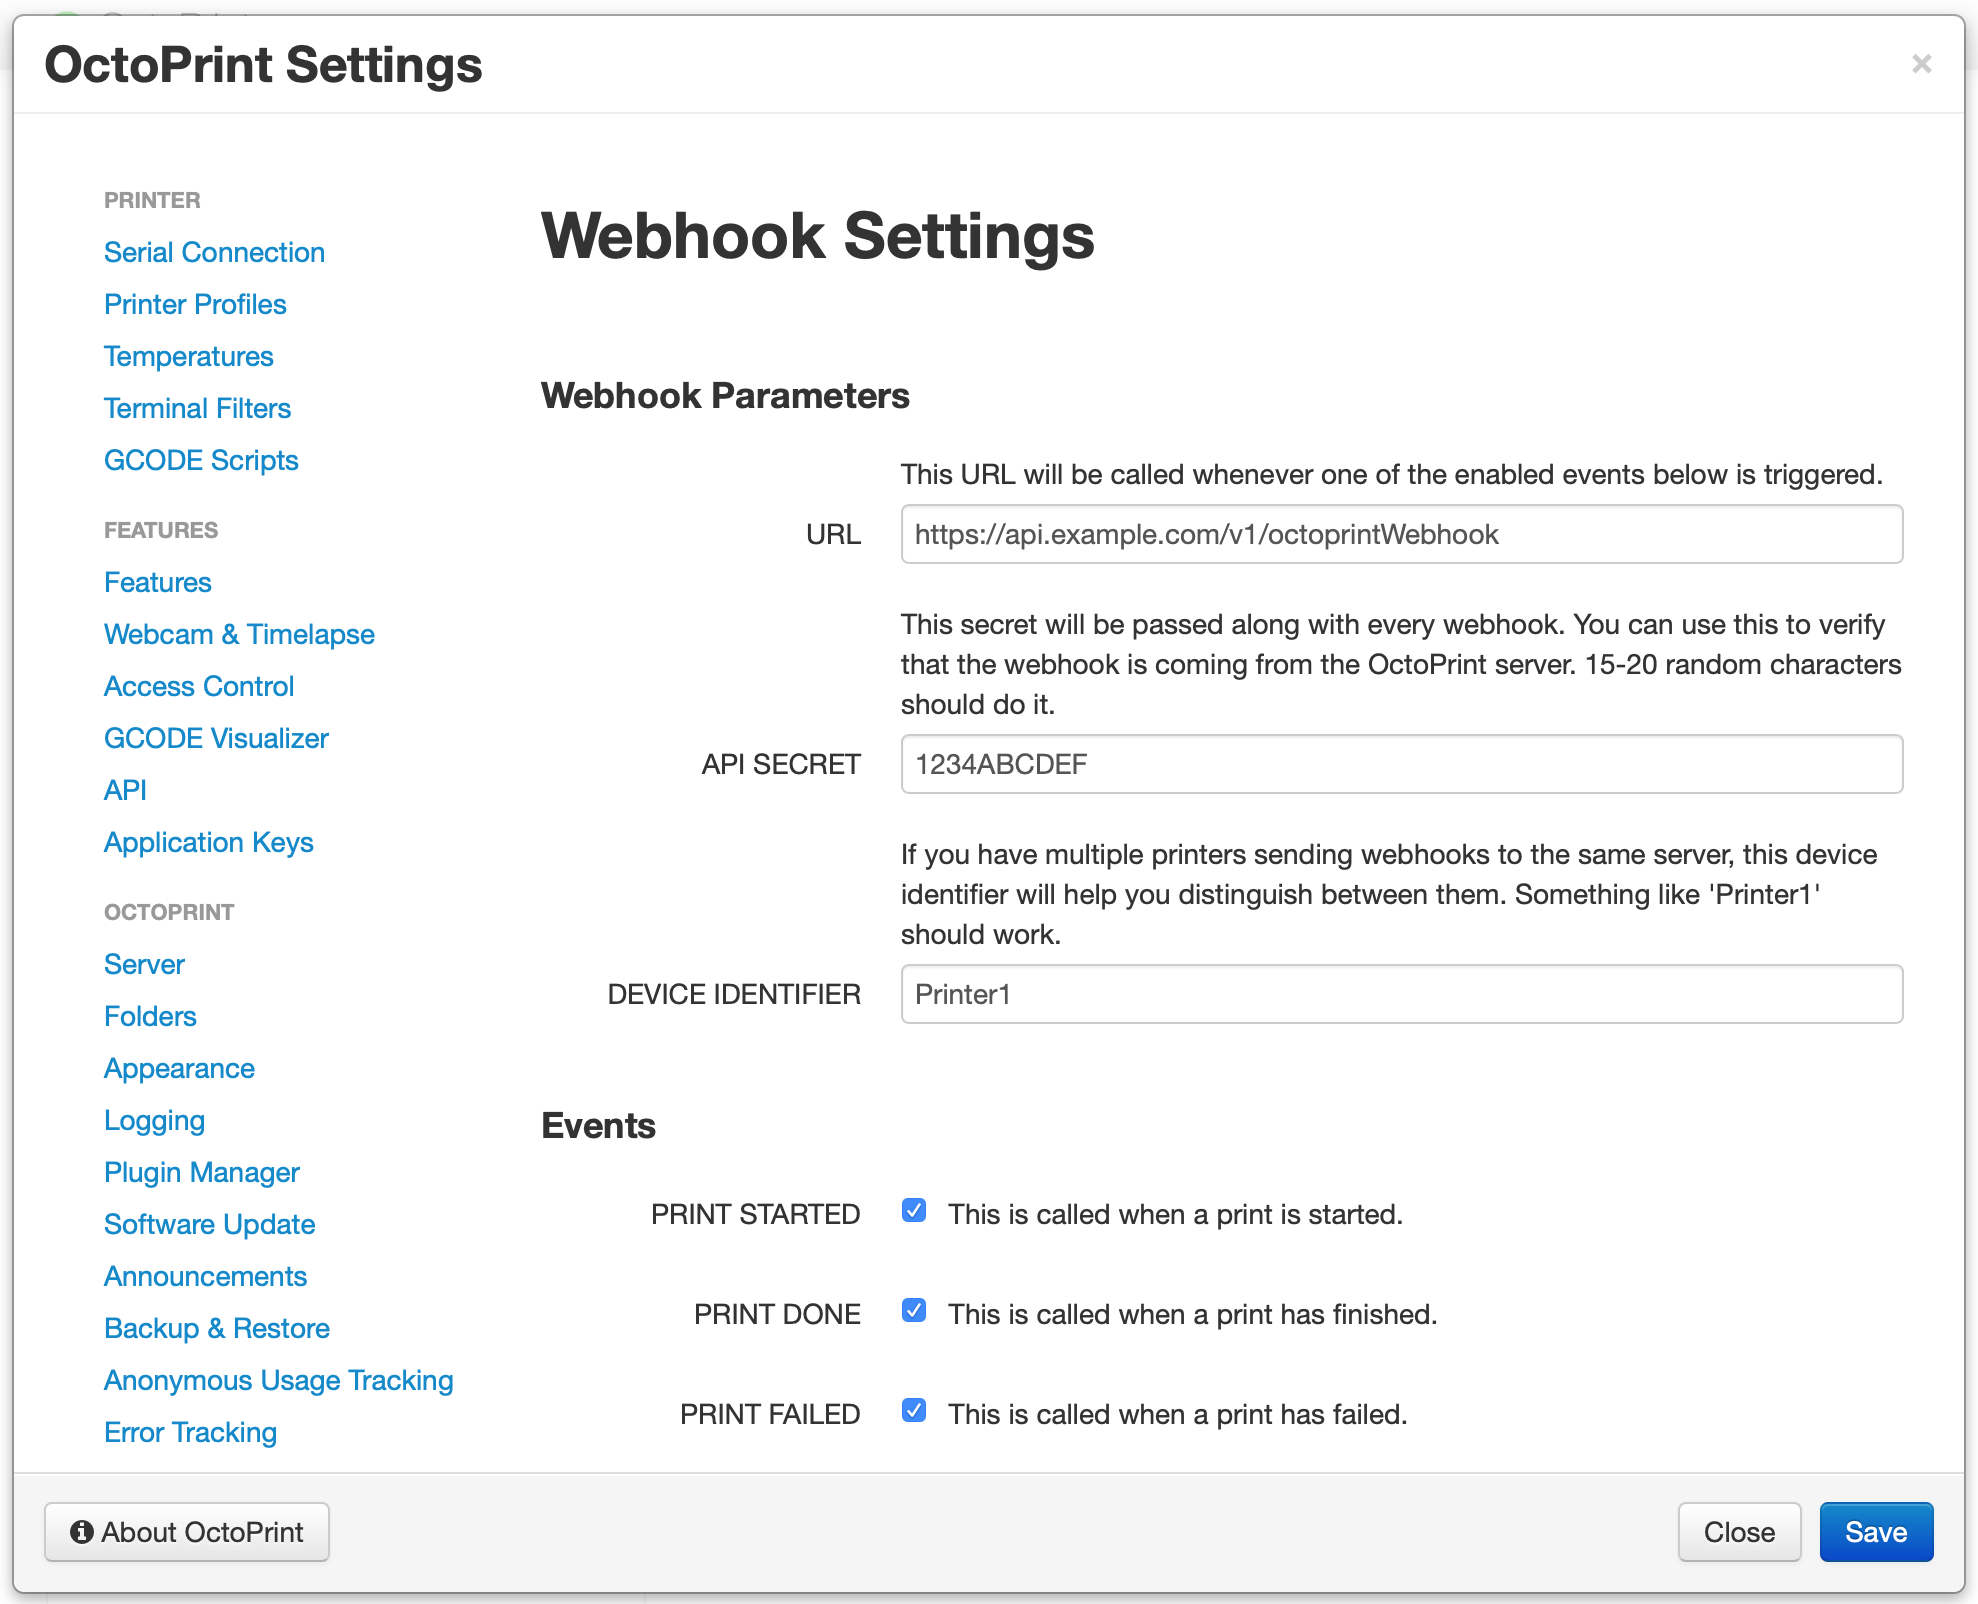
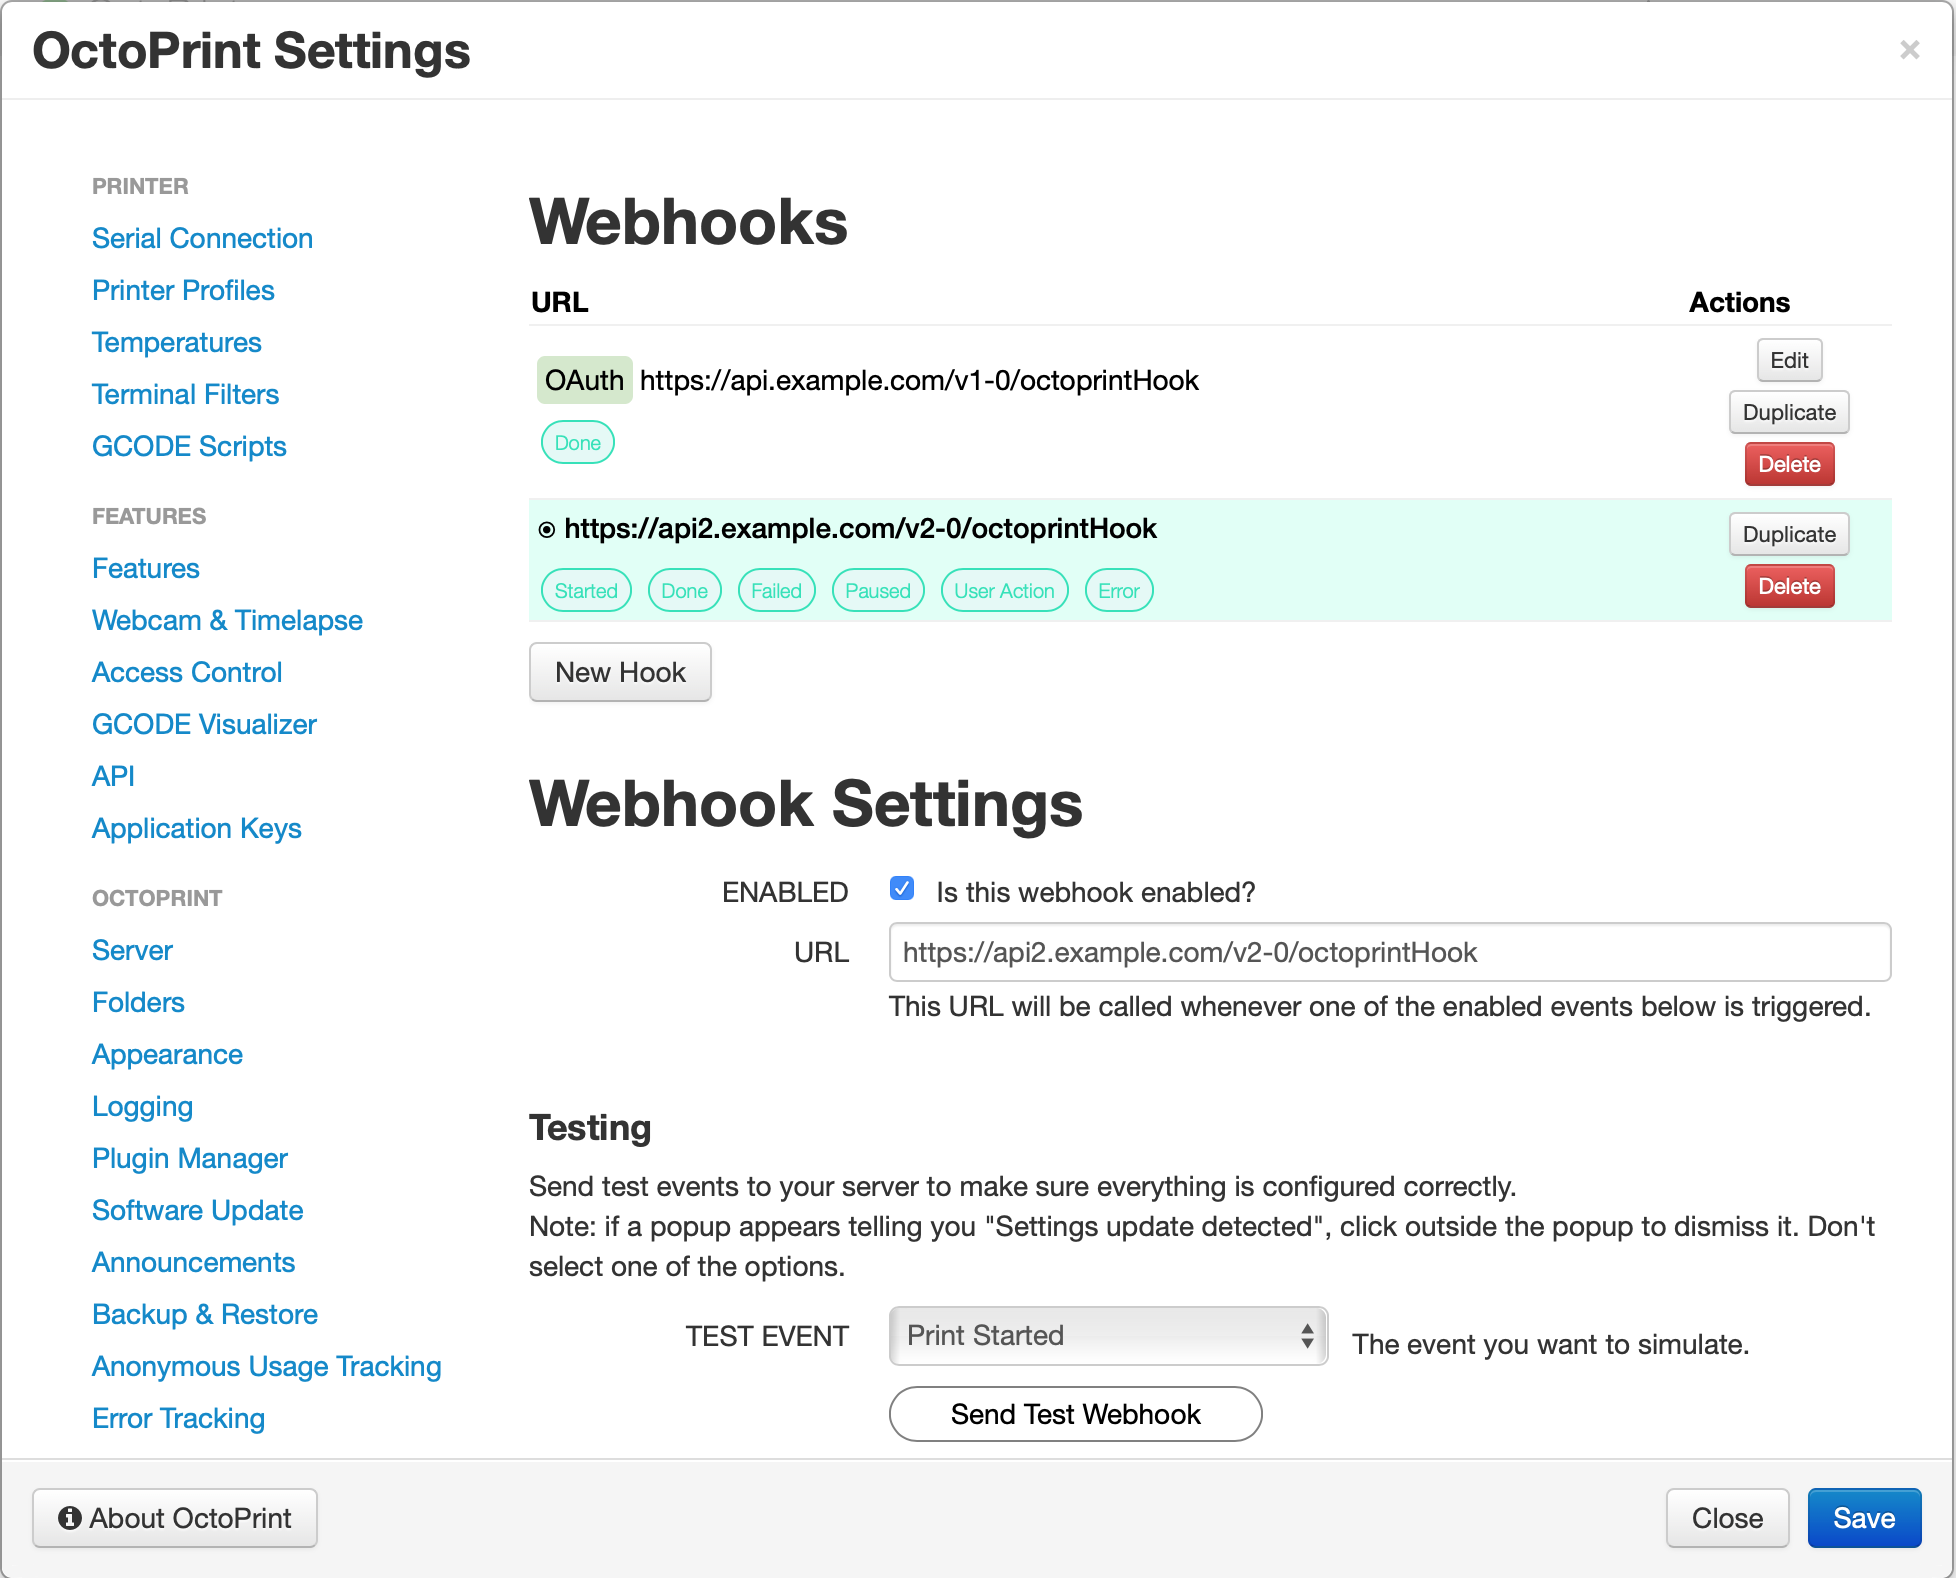
Updated the documentation for Webhooks (#543)
* Added webhooks plugin

Added the webhooks plugin to the list.

* Moved image under assets.

Moved the image under the assets folder.

* Updated Webhooks documentation

Added images, updated documentation to fully explain the plugin.

Changed region(s): [[0.0, 0.0, 1.0, 1.0], [0.2495, 0.1242, 0.9668, 0.6521], [0.2495, 0.6831, 0.9044, 0.9316]]

diff --git a/_plugins/webhooks.md b/_plugins/webhooks.md
@@ -24,6 +24,9 @@ tags:
 
 screenshots:
 - url: /assets/img/plugins/webhooks/Featured.png
+- url: /assets/img/plugins/webhooks/Parameters.png
+- url: /assets/img/plugins/webhooks/Events.png
+- url: /assets/img/plugins/webhooks/Advanced.png
 
 featuredimage: /assets/img/plugins/webhooks/Featured.png
 
@@ -32,9 +35,366 @@ compatibility:
 
 ---
 
-This plugin was created so that my own API could receive events from OctoPrint and perform custom actions such as
-send a text message/push notification, log the events in a database, etc.
-Also, I needed a way to get notified when a color change was needed on my Prusa. So, this plugin has a custom event
-that will alert me whenever a color change is necessary. See the
-[README.md](https://github.com/2blane/OctoPrint-Webhooks) for more information on how to configure
-this plugin and what events are supported.
+# OctoPrint-Webhooks
+
+This allows you to send a webhook (a.k.a. API Request) to any URL when certain events happen on OctoPrint such as when
+a print starts, finishes, fails, ...
+
+This plugin supports snapshot photos, OAuth, custom HTTP Methods (GET, POST, PUT, DELETE), custom headers, custom data and data format, custom encoding (json vs. x-www-form-urlencoded), and much more. It is very advanced and can send almost any kind of request to your server when an OctoPrint action occurs.
+
+## Blog Post
+
+I wrote a blog post to explain more about what this plugin is and why I built it. [Blog Post](https://www.darwincloud.com/blog/add-webhooks-to-your-3d-printer-with-octoprint/)
+
+## Setup
+
+Install via the bundled [Plugin Manager](https://docs.octoprint.org/en/master/bundledplugins/pluginmanager.html)
+or manually using this URL:
+
+    https://github.com/2blane/OctoPrint-Webhooks/archive/master.zip
+
+Once you've installed the plugin, go to the settings page for this plugin. The page is called "Webhooks".
+Select which events will trigger a webhook, then change the following:
+
+#### URL
+The url that will be called when an event occurs such as https://www.myapi.com/v1/method
+#### HTTP METHOD
+The type of HTTP request to make... Usually this is POST.
+#### CONTENT TYPE
+This determines how the data is encoded before it is sent to your server. Usually, JSON
+will work, but on some older systems x-www-form-urlencoded might be needed.
+
+NOTE: The proper HTTP header will be set for 'Content-Type' if you don't supply one that allows the data to be sent properly. For instance, if you set the Content Type setting to JSON, then 'application/json' must appear somewhere your 'Content-Type' header. If 'application/json' does not appear in your 'Content-Type' header or is set to some other value, it will get replaced. So, you could set it to 'application/json charset=utf8;' if you wanted to, but not 'application/yoyo' as that would get replaced to 'application/json'.
+#### API SECRET
+This field is optional. If you want to provide a secret key/password that you can check on the server this is the easiest way to do that. For instance, if you set the API Secret to 'abcdef123456', then on your server you can check to make sure the API Secret is 'abcdef123456'. If it is not, then the request came from something other than your OctoPrint Server and you should ignore the request (Somebody is trying to hack you!). Also, for security reasons you should set this to some long random string instead of something like 'password'.
+#### DEVICE IDENTIFIER
+A name or id that you can provide to your printer to distinguish printers from each other. You can use this service with multiple printers using the same settings. Just set this device identifier to something different and you'll be able to detect which printer sent the event.
+
+## Webhook Request
+By default, the webhook will be called with the following data:
+```
+{
+  "deviceIdentifier": "the DEVICE IDENTIFIER in settings",
+  "apiSecret": "the API SECRET in settings",
+  "topic": "the name of the event - see below for events",
+  "message": "a description of the event - can be used for display purposes",
+  "extra": {...} //a json object of data related to the event - different for each event
+}
+```
+
+To change the format of the request, there are some advanced configuration parameters you can modify.
+
+## Advanced Configuration
+
+#### Headers
+Provide a JSON dictionary of HTTP headers that will be passed along with the request such as:
+```
+{
+  "Content-Type": "application/json"
+}
+```
+
+#### Data
+Provide a JSON dictionary of parameters that will be passed along with the request such as:
+```
+{
+  "deviceIdentifier":"@deviceIdentifier",
+  "apiSecret":"@apiSecret",
+  "topic":"@topic",
+  "message":"@message",
+  "extra":"@extra",
+  "custom1":"my custom data",
+  "custom2":"my second piece of custom data",
+  "print_name":"@job.file.name",
+  "estimated_print_time":"@job.estimatedPrintTime"
+}
+```
+
+You can use @param syntax to insert variables into the JSON for both the
+Headers and Data. For instance, if above you set 'DEVICE IDENTIFIER' to "Blane's Printer",
+then @deviceIdentifer will get replaced with "Blane's Printer" when the webhook request
+is made.
+
+You can also use dot notation to grab only parts of a dictionary. For instance,
+if there was a param named @job that contained the following:
+```
+{
+  "file": {
+    "name": "myFile.gcode", //the name of your file
+    "path": "/myFile.gcode",
+    ...
+  }
+}
+```
+Then, you could use the notation @job.file.name to just retrieve the file's name
+instead of the entire dictionary.
+
+You can also use multiple @param variables in the same string. For instance:
+```
+{
+  "custom1": "@param1 some text here @param2 - @param3"
+}
+```
+Just make sure to put a space after each @param.
+
+See below for the list of available variables that you can use with the @param syntax.
+
+#### Available Variables
+@deviceIdentifier - the user set DEVICE IDENTIFIER found in settings
+
+@apiSecret - the user set API SECRET found in settings
+
+@topic - the type of event that was triggered. See below for a list of topics/events.
+
+@message - a short description of the type of event that was triggered.
+
+@extra - a dictionary of extra data that was passed along by OctoPrint. This dictionary depends on the event, but is usually something like the following:
+```
+{
+  "origin": "local",
+  "name": "myFile.gcode",
+  "user": "myUserName",
+  "owner": "owner of the file",
+  "path": "/someFolder/myFile.gcode",
+  "size": 10890569
+}
+```
+See this [link](https://docs.octoprint.org/en/master/events/index.html#printing)
+for the data that is passed with each event.
+
+@state - a dictionary of data showing the current state of the printer
+```
+{
+  "text": "Operational",
+  "flags": {
+    "operational": true,
+    "printing": false,
+    "cancelling": false,
+    "pausing": false,
+    "resuming": false,
+    "finishing": false,
+    "closedOrError": false,
+    "error": false,
+    "paused": false,
+    "ready": true,
+    "sdReady": true
+  }
+}
+```
+See this [link](https://docs.octoprint.org/en/master/api/datamodel.html#printer-state)
+for more information.
+
+@job - a dictionary of data about the current print job
+```
+{
+  "file": {
+    "name": "DarwinKeycap.gcode",
+    "path": "DarwinKeycap.gcode",
+    "display": "DarwinKeycap.gcode",
+    "origin": "local",
+    "size": 242038,
+    "date": 1588195405
+  },
+  "estimatedPrintTime": 476.05552375713864,
+  "averagePrintTime": 48.8202253183409,
+  "lastPrintTime": 31.290278981000007,
+  "filament": {
+    "tool0": {
+      "volume": 0.8077585001602579,
+      "length": 335.8269600000015
+    }
+  },
+  "user": "iAmLegend"
+}
+```
+See this [link](https://docs.octoprint.org/en/master/api/datamodel.html#job-information)
+for more information.
+
+@progress - a dictionary of data about the current print job's progress
+```
+{
+  "completion": 14.496484023169915, //percent complete
+  "filepos": 35087, //the current byte position in the file being printed
+  "printTime": 29, //seconds already spent printing
+  "printTimeLeft": 40, //seconds remaining
+  "printTimeLeftOrigin": "average" //how the time remaining was calculated.
+}
+```
+See this [link](https://docs.octoprint.org/en/master/api/datamodel.html#progress-information)
+for more information.
+
+@currentZ - the current z height of the print head in mm.
+
+@offsets - any print offsets if applicable ... otherwise an empty dictionary.
+
+@meta - a dictionary of metadata for the file you are printing.
+```
+{
+  "statistics": {
+    "averagePrintTime": {
+      "_default": 49.04197595574509
+    },
+    "lastPrintTime": {
+      "_default": 50.53992706
+    }
+  },
+  "hash": "2d2f2c6a410f8786b62604422799c9f3c0721367",
+  "analysis": {
+    "estimatedPrintTime": 476.05552375713864,
+    "printingArea": {
+      "maxZ": 5.6,
+      "maxX": 136.67,
+      "maxY": 116.672,
+      "minX": 0.0,
+      "minY": -3.0,
+      "minZ": 0.0
+    },
+    "dimensions": {
+      "width": 136.67,
+      "depth": 119.672,
+      "height": 5.6
+    },
+    "filament": {
+      "tool0": {
+        "volume": 0.8077585001602579,
+        "length": 335.8269600000015
+      }
+    }
+  },
+  "history": [
+    {
+      "timestamp": 1588195498.7716029,
+      "printTime": 50.352958230999995,
+      "printerProfile": "_default",
+      "success": True
+    },
+    ...
+  ]
+}
+```
+
+@currentTime - The time of the event in number of seconds since the epoch.
+The epoch is usually January 1 1970, 00:00:00 (UTC).
+
+@percentCompleteMilestone - The last percent complete milestone.
+Usually this is used with the Print Progress event for the message text.
+
+@snapshot - This is a special parameter that can only be used on the first level
+of a dictionary. For instance, you can use it like this:
+```
+{
+  "snap": "@snapshot"
+}
+```
+but not like this:
+```
+{
+  "snap": {
+    "image": "@snapshot"
+  }
+}
+```
+The @snapshot parameter will be replaced with a jpeg image if a snapshot can be retrieved
+from your connected webcam.
+Make sure under FEATURES -> Webcam & Timelapse -> the 'Snapshot URL' is set and working.
+This is what is used to grab a snapshot. The snapshot is then resized so that it can be
+quickly transported, and then sent along with your webhook under the key name you provided
+to the @snapshot parameter. If for some reason an image can't be taken or there is an image
+processing issue, then the @snapshot parameter's key will be deleted and removed from
+the request. So, it is recommended that you make the image parameter optional on your server.
+
+NOTE: If you use the @snapshot parameter, the data will automatically be encoding using
+multipart/form-data and will override your settings and headers to match.
+
+NOTE: In some cases the data might not be available. For instance @meta.statistics.lastPrintTime might not exist. If this happens, the @param will be replaced with an empty string.
+
+#### Strategy - Getting all data
+You can copy and paste the following in the DATA box to get all the available data.
+Then, you can remove and rearrange things as necessary.
+```
+{
+  "deviceIdentifier":"@deviceIdentifier",
+  "apiSecret":"@apiSecret",
+  "topic":"@topic",
+  "message":"@message",
+  "extra":"@extra",
+  "state": "@state",
+  "job": "@job",
+  "progress": "@progress",
+  "currentZ": "@currentZ",
+  "offsets": "@offsets",
+  "meta": "@meta",
+  "currentTime": "@currentTime",
+  "snapshot": "@snapshot"
+}
+```
+
+## Events / Topics
+The following is the list of topics that can trigger a webhook.
+
+* Print Started
+
+The print has started.
+
+* Print Done
+
+The print has finished.
+
+* Print Failed
+
+The print has failed.
+
+* Print Paused
+
+The print has been paused.
+
+* User Action Needed
+
+Called on Prusa Printers when a color change is necessary.
+
+* Error
+
+An error has occurred. Can refer to many different types of errors.
+
+* Print Progress
+
+Sends progress reports every 'x' percent where 'x' is defined by you.
+For instance, you can send a progress webhook every 10%, 25%, or 7% if you wanted. For instance, if you set 'x' to 5, then you would get a notification at 5%, 10%, 15%, 20%, ..., 95%.
+
+NOTE: 0% and 100% are not triggered by this event, use 'Print Started' and 'Print Done'
+for those events.
+
+## Event Data
+For details on what 'extra' data is provided with each event, check out the following.
+[https://docs.octoprint.org/en/master/events/index.html#printing](https://docs.octoprint.org/en/master/events/index.html#printing)
+
+## OAuth
+OAuth is a common authentication mechanism used by many APIs.
+If your server requires you to first make an API call trading credentials
+for tokens so that you can use those tokens in your API request,
+then OAuth should be enabled. You can then access the properties of the
+OAuth response using something like @access_token in the DATA and HEADER settings for
+your webhook request.
+
+Once you've ticked the box to enable OAuth, you'll see some fields that you need to
+fill out such as the url to call, the HTTP Method, Content-Type, Headers, and Data.
+These work similar to the webhook settings, except you **cannot** use the @param sytax.
+
+When an event triggers a webhook, this OAuth request will be called first (if enabled).
+The response is expected to be JSON and will be parsed. All the keys in the JSON dictionary
+will be available as @params that will be passed into the webhook request.
+For instance, if the reponse of the OAuth request was
+```
+{
+  "access_token": "abc123",
+  "refresh_token": "efg456",
+  "expires_in": 3600
+}
+```
+then you could use @access_token, @refresh_token, and @expires_in inside the
+'DATA' and 'HEADERS' Advanced Settings to pass them into your webhook request.
+
+## TESTING
+At the bottom of the settings page, you can simulate events to test out your API and make sure everything is working. Just choose the event type and click the 'Send Test Webhook' button. You'll see a popup message (usually in the top left of the screen) showing you the result of the webhook and if there were any errors. You'll be notified if there are any JSON parsing issues with the settings you provided or any networking issues etc. The API requests that are sent are expected to return HTTP status codes between 200 and 399. Anything outside of that range will be considered an error.
+
+NOTE: If you see a popup telling you that settings need to be reloaded - ignore this. Don't select an option, instead click outside the box on the screen. You can get into a weird state where you change the settings and they aren't being updated. If this happens just refresh the page and try again.
